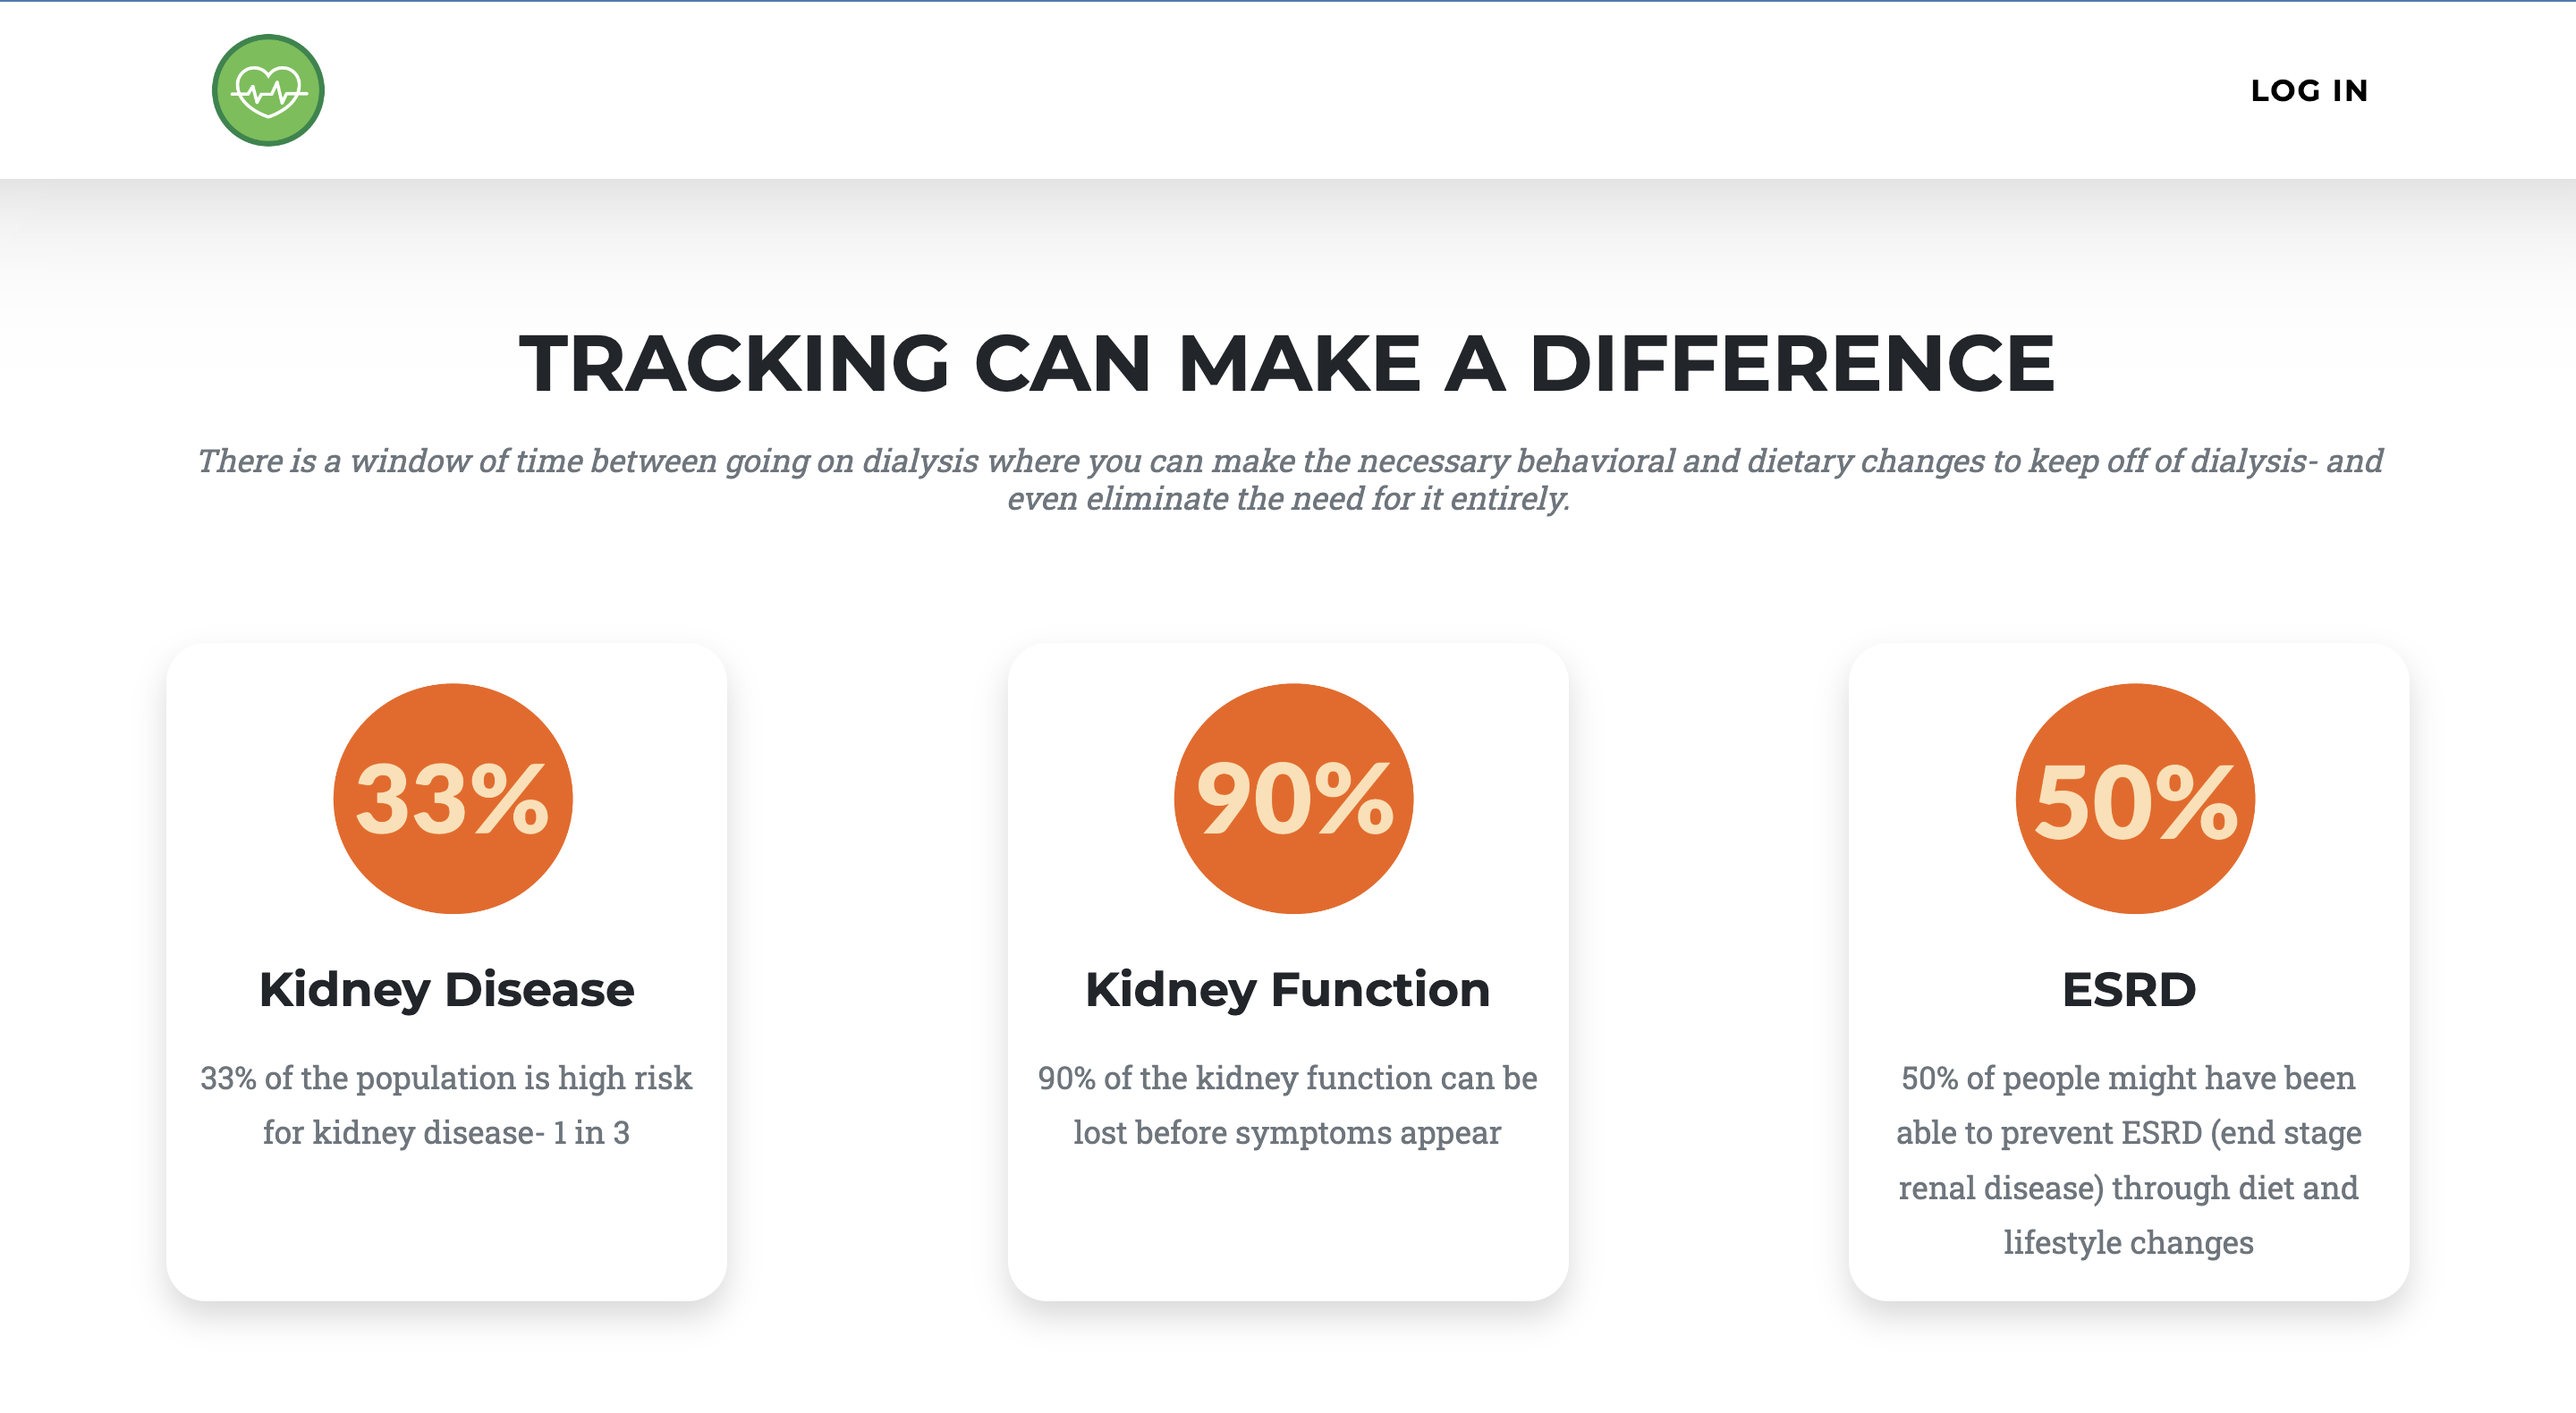
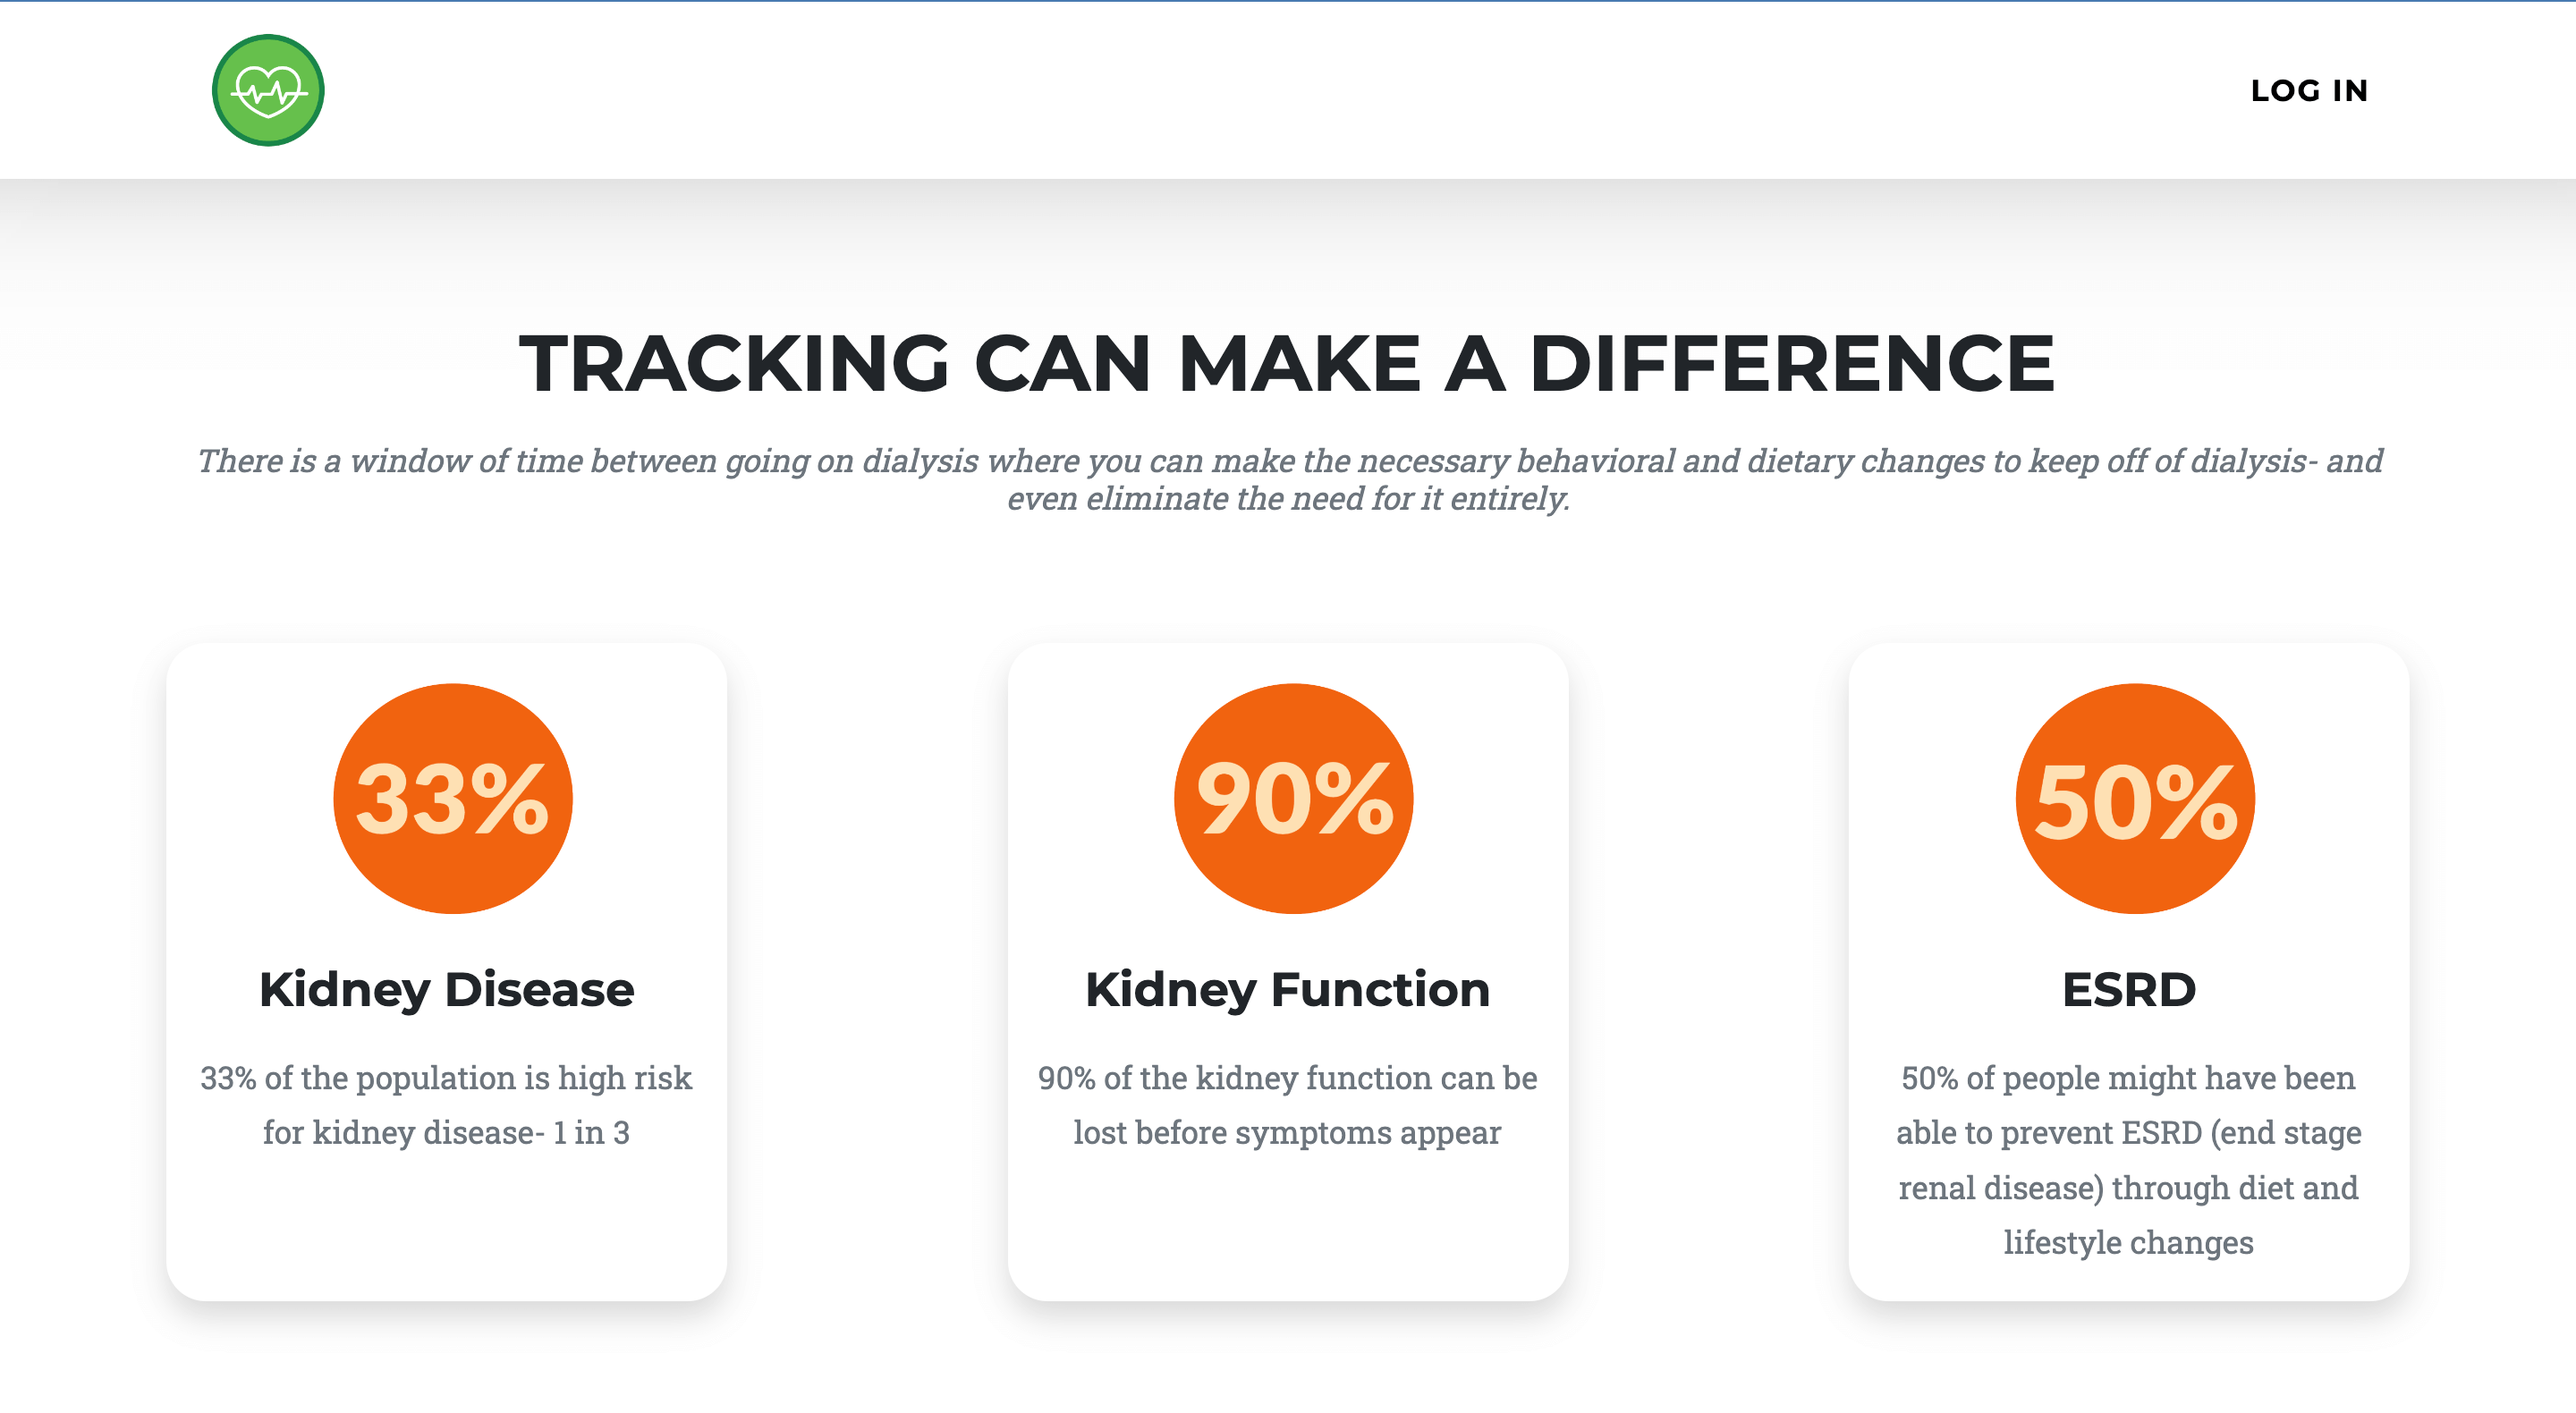
Tiny PNG'd some images to make the file size small

Changed region(s): [[0.4375, 0.4652, 0.5625, 0.6513], [0.7812, 0.4652, 0.875, 0.6513], [0.125, 0.4652, 0.2188, 0.6513]]

diff --git a/index.html b/index.html
@@ -695,7 +695,7 @@
 
             <div class="portfolio-wrap">
 
-              <img src="assets/img/portfolio/Dating_Website/dating-wiki-1.png" class="img-fluid" alt="">
+              <img src="assets/img/portfolio/Dating_Website/dating-wiki-home-logged-out.png" class="img-fluid" alt="">
 
               <div class="portfolio-info">
                 <h4>Dating Website (Wiki)</h4>
@@ -703,7 +703,7 @@
                 <p>IS 403 (Full-Stack)</p>
 
                 <div class="portfolio-links">
-                  <a href="assets/img/portfolio/Dating_Website/dating-wiki-1.png" data-gallery="portfolioGallery" class="portfolio-lightbox" title="Web 3"><i class="bx bx-plus"></i></a>
+                  <a href="assets/img/portfolio/Dating_Website/dating-wiki-home-logged-out.png" data-gallery="portfolioGallery" class="portfolio-lightbox" title="Web 3"><i class="bx bx-plus"></i></a>
                   <a href="dating-wiki-portfolio-details.html" class="portfolio-details-lightbox" data-glightbox="type: external" title="Portfolio Details"><i class="bx bx-link"></i></a>
                 </div>
               </div>
